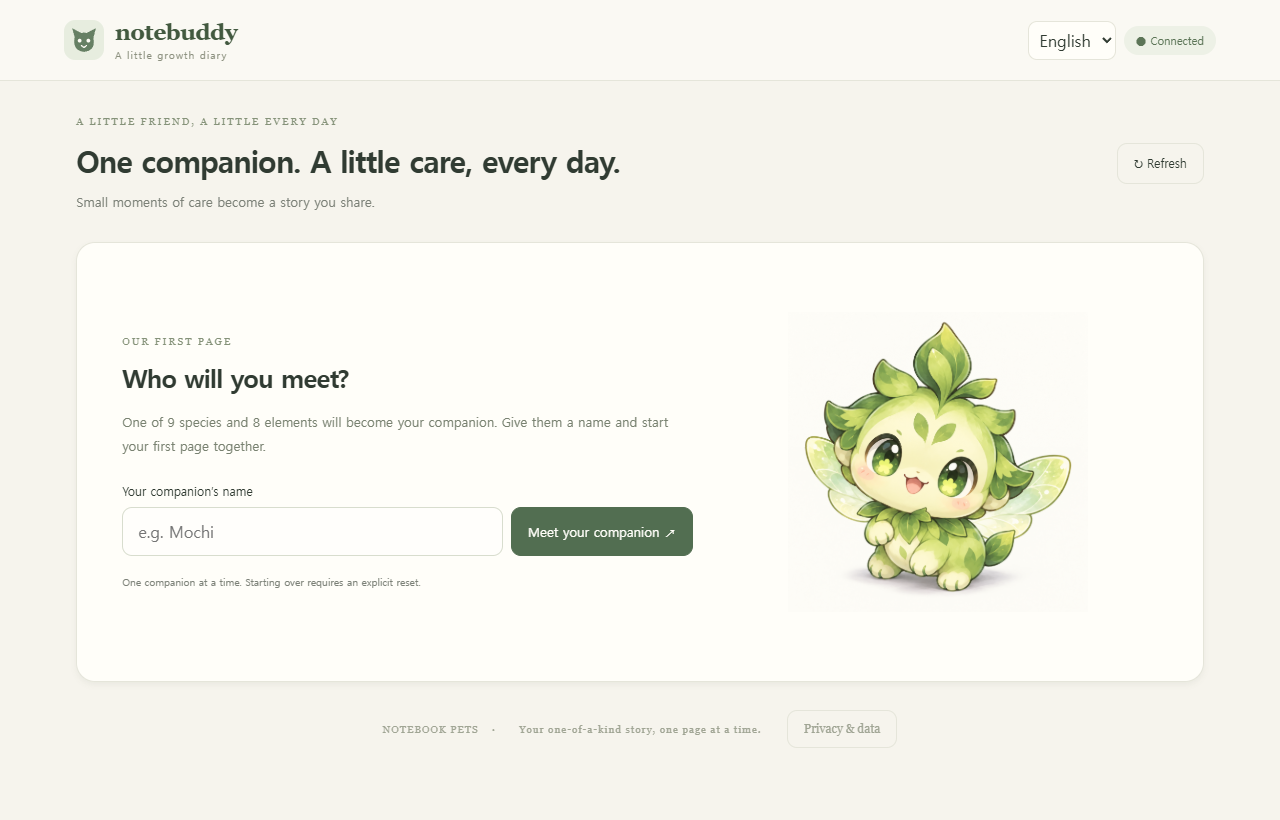
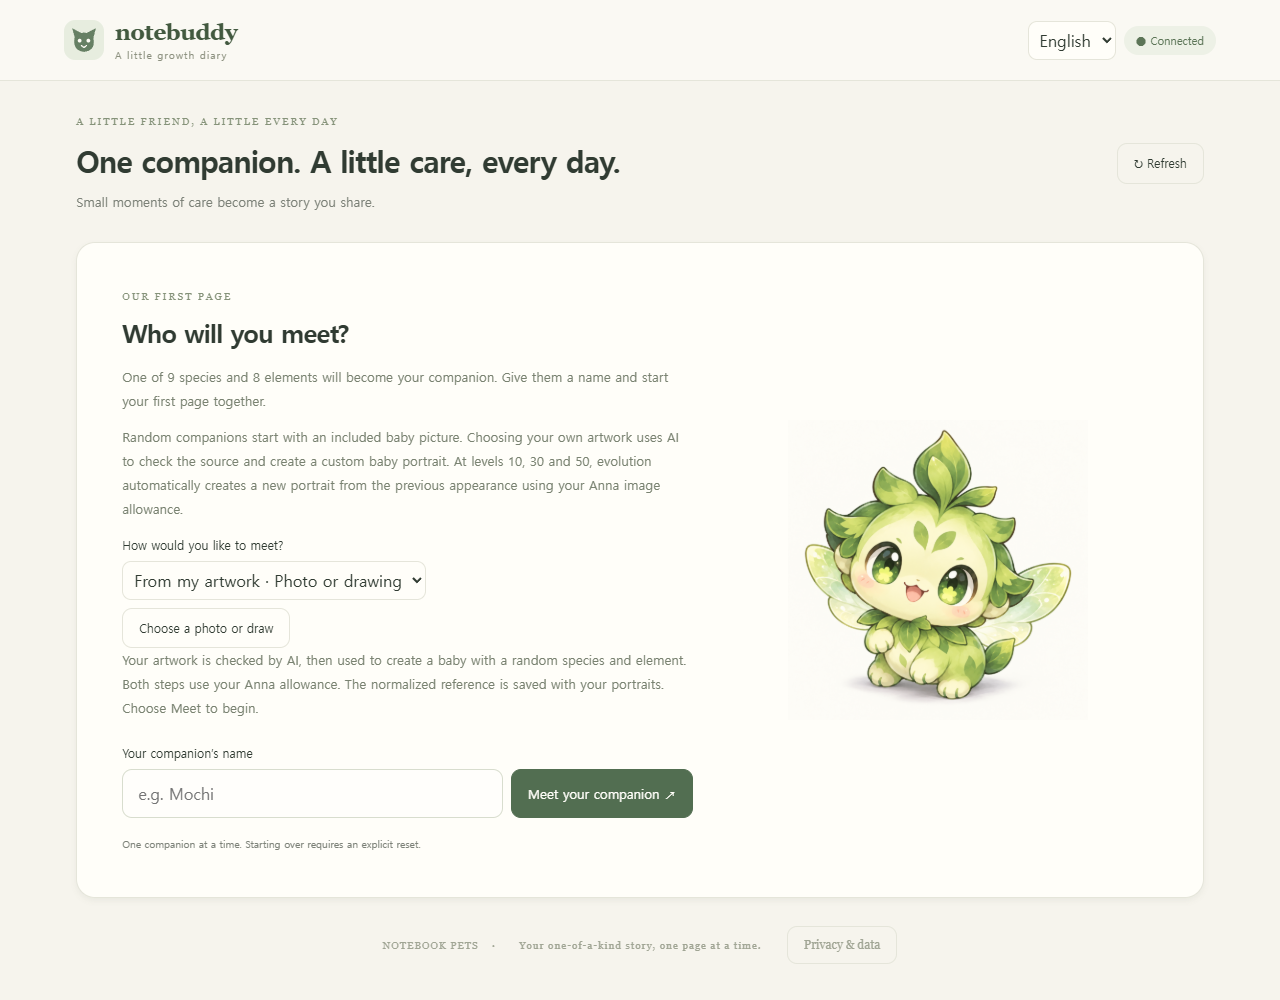
chore(anna): prepare 0.3.0 review candidate and 0.1.10 game package

diff --git a/anna/executas/notebuddy/notebuddy_plugin.py b/anna/executas/notebuddy/notebuddy_plugin.py
@@ -15,7 +15,7 @@ from reset import reset, pending
 from localization import localize
 from receipts import disposition, event_key, prefix, commit_result, SaveCapacityError, pack, unpack
 
-VERSION = '0.1.9'
+VERSION = '0.1.10'
 SAVE_KEY = 'notebuddy/game-v1'
 READ = frozenset({'status', 'album', 'titles', 'quests', 'help'})
 MANIFEST = {

diff --git a/anna/NEXT_RELEASE.md b/anna/NEXT_RELEASE.md
@@ -1,65 +1,21 @@
-Latest validation: [10 October live verification](LIVE_VALIDATION_2026_10_10.md). Four-stage image sample, real care/reopen, real-time walk recharge and isolated reset passed in the documented environments; hosted bundle upload and end-to-end artwork UI remain blocked. Artwork birth now prioritizes assigned species anatomy after an observed mismatch.
+# Notebuddy 0.3.0 submission candidate
 
-# Next Anna update — prepared on 2026-10-10
+Prepared on 10 October 2026. App 0.3.0 requires game tool 0.1.10. The original standalone game VERSION remains 0.2.0; these are separate products/artifacts. This is a preview update, not a claim that all 1.0 release gates passed.
 
-See [1.0 release criteria](V1_READINESS.md) for the frozen product scope and outstanding evidence.
+## Release notes
 
-## Deployment boundary
+- Choose a random companion or use a photo/drawing as inspiration; species and element remain randomly assigned. Unsuitable or uncertain artwork is refused, and failed generation supports explicit retry or the default appearance.
+- At levels 10, 30 and 50, evolution extracts visible features from the previous portrait and generates a new personal image. A growth/saving animation reveals saved results; reduced motion is supported.
+- Successful care actions receive short AI reactions. Gameplay commits first; failed reactions do not undo rewards. Saving an already received reply can be retried without another AI call.
+- Walks store five charges and recover one every five minutes, including time away. Quiet walks have a 50% chance; XP and encounters share the remainder.
+- Improved first-use guidance, uncertain-action recovery and chat/portrait saving feedback in English and Korean.
 
-The submitted candidate remains app **0.2.1** (version 1219), Executa **0.1.9** (version 694). The last live query on 2026-10-10 returned `pending_review`; working draft revision 17 was `ready`. No upload, version cut, resubmission or release-branch update is part of this work. The next version number is intentionally not assigned before packaging.
+## Submission materials
 
-## Prepared user-facing release notes
+The English listing, three current screenshots and version-specific privacy link are prepared together. Analysis, checking, generation and automatic reactions explicitly use Anna AI allowance. No likeness, atomic-first-creation, universal deletion, mobile certification or provider-specific retention guarantee is made.
 
-- Only 72 baby pictures are bundled. Evolution automatically creates new personal artwork from the latest previous saved appearance and consumes Anna image allowance.
-- A growing/saving animation reveals the new portrait after storage completes; reduced motion is supported.
-- Interrupted automatic requests do not repeat on Refresh/reopen; manually retry after checking other windows and allowance.
+## Verification boundary
 
-- Get started with care, a first conversation and the growth album from the new welcome guide.
-- Retry an uncertain care result beside the action, keeping the same request to avoid duplicate rewards.
-- See chat and portrait progress, saving failures and successful saves beside the relevant controls, in English or Korean.
-- Retry saving an existing reply or generated portrait without asking AI to generate it again. Keep the window open while saving is unfinished.
-- Keep the matching saved portrait visible during temporary URL lookup failures.
-- Clear old pending work when another window replaces the companion.
+See LIVE_VALIDATION_2026_10_10.md for real-provider four-stage samples, real care/reopen, walk recharge and reset evidence. Earlier direct-reference 404 is historical; current generation uses vision-extracted text. Local artwork upload failed at PUT, so full hosted photo/drawing birth remains unverified. Hosted bundle upload previously returned WAF 403. New ordinary-account install remains unverified.
 
-## Verification and remaining evidence
-
-Local verification passed on 2026-10-10: **32 UI unit tests and 39 browser tests (38 full-suite plus the final battle/evolution regression)**; the unchanged Python storage/protocol suite previously passed 47 tests, strict manifest validation and `git diff --check`. Browser tests use an isolated host, including permission denial/recovery → first companion → care → chat → portrait → reload. They also cover failed generation, failed writes, lost responses, retry without duplicate AI generation and English/Korean feedback.
-
-This is **not** evidence of a new Anna account's installer or actual first permission grant. No separate authenticated test account is available for that check. Existing production saves must not be erased or rerolled to simulate a new account.
-
-Before publishing the next candidate: run the prepared source checks, choose/bump the app version, refresh listing screenshots for the new guide, package and inspect the bundle, then verify the fixed candidate in a separate test installation/account. Record first permission grant and denial/regrant, game and AI save/reopen behavior, version IDs and review response. Do not replace the current candidate merely to run these checks.
-
-## Accepted limitations
-
-- Distributed first creation still lacks a proven atomic create-if-absent primitive. Local protection and regression passes do not remove that race.
-- In-flight requests, old runtimes and platform retention remain subject to the published deletion/reset limitations.
-- Pending AI replies/portraits and uncertain action requests exist only in the current window. Closing it loses the retry context; reopen and check saved state before issuing a new request.
-- A private support route remains unconfirmed. Public GitHub issues must not collect personal conversations or credentials.
-- Mobile enablement is deferred by the user.
-
-The user accepted submission with the documented platform limitations. Historical documents calling these submission blockers or saying submission has not happened are superseded by REVIEW_READINESS.md and the receipt in HANDOFF.md.
-
-Automatic evolution uses vision-extracted textual features followed by text-only image generation. Actual visual fidelity still needs live verification. The new privacy/listing copy must ship together with this behavior; the currently submitted release copy remains unchanged.
-
-## Live verification failed — 2026-10-10
-
-Historical check of the superseded reference-conditioned route returned a provider endpoint 404; no image was obtained from that route. APS reference save/reopen passed and production data remained unchanged. This blocks the agreed 1.0 image criterion. See [the verification record](EVOLUTION_LIVE_VERIFICATION.md). Do not describe the develop implementation as provider-verified.
-
-## Rechargeable walks
-
-Walks now hold up to 5 charges and recover one every 300 seconds, including offline time. Existing saves start with 5 charges once. Midnight does not refill charges. Each walk exclusively yields quiet time (50%), XP (30%; 10/20/30 equally likely), or an encounter (20%). Base expected walk XP is 6; the existing sleep bonus and level cap still apply. Battles remain limited to 5 per KST day. Replayed requests reuse the same result without spending or rolling again.
-
-## Artwork first meeting
-
-Optional upload/drawing input, local validation, explicit vision check, feature-based baby generation and distinct refusal/check/generation/save failure recovery are implemented on develop. See [USER_ARTWORK.md](USER_ARTWORK.md). Real vision/provider behavior remains unverified; do not ship until the new text-based flow is tested live. Screenshots and the deployed privacy URL must be updated with any candidate that includes this behavior.
-
-## Automatic care reactions · 2026-10-10
-
-Implemented on develop after user approval of per-action Anna allowance. Successful actions queue short reactions with pending/failure/save-only recovery, receipt-based deduplication and companion guards. [CARE_REACTIONS.md](CARE_REACTIONS.md) describes scope and limits. Review candidate/release unchanged.
-
-
-## Text feature generation — 2026-10-10
-
-The current implementation replaces reference_image_urls with vision-to-text extraction followed by text-only image.generate. Prior provider 404 evidence is historical for the superseded route, not evidence that the new route succeeds. Validate actual vision, ordinary generation and visual identity before submission. Features and inherited identity live on existing ART entries and reset/removal covers them.
-
-Live follow-up: one actual Anna baby-to-juvenile vision/text-generation/download sample succeeded. No production game or album write was requested. Deployed UI, user-artwork birth and stages 3/4 remain unverified. See [verification record](EVOLUTION_LIVE_VERIFICATION.md).
+The user authorized submission of the current version on 10 October after the audit. This supersedes the earlier instruction to keep the old review candidate while preparing the next update; it does not turn failed or incomplete checks into passes. Submission succeeds only when the server confirms the new review candidate. See REVIEW_READINESS.md for the actual outcome.

diff --git a/anna/PRIVACY.md b/anna/PRIVACY.md
@@ -1,6 +1,6 @@
 # Notebuddy — privacy and data notice
 
-Last updated: 10 October 2026. Applies to the Notebuddy app on Anna, maintained by [kdkrkwhr](https://github.com/kdkrkwhr). The separately installed Discord/Hermes edition has a different storage setup.
+Last updated: 10 October 2026. This notice describes Notebuddy 0.3.0. Applies to the Notebuddy app on Anna, maintained by [kdkrkwhr](https://github.com/kdkrkwhr). The separately installed Discord/Hermes edition has a different storage setup.
 
 ## What the app stores and why
 
@@ -13,7 +13,7 @@ Last updated: 10 October 2026. Applies to the Notebuddy app on Anna, maintained 
 
 The app does not request your real name, email, contacts or a separate API key. You choose your companion’s name and anything you type into chat. Avoid entering sensitive personal information. Anna authenticates access to the account’s saved data; Notebuddy’s game commands do not accept another user’s account ID.
 
-## Optional source artwork (develop update, not yet the submitted version)
+## Optional source artwork
 
 Choosing artwork mode sends a normalized PNG copy of your photo or drawing to Anna's LLM service for an image suitability check and a short description of visible features. This check uses your AI allowance, including when no pet is created. Local file checks alone do not send an image. The browser accepts PNG/JPEG/WebP up to 12 MB and 16 megapixels, with minimum dimensions 32 by 32; it resizes to a maximum side of 1024 pixels and re-encodes as PNG instead of uploading the original file or its metadata. Original filenames are not sent in the prompt.
 
@@ -21,7 +21,7 @@ If the check accepts the source, the game assigns random species and element, an
 
 The in-browser editor and uncommitted generated image are held in memory. Closing the page may require reselecting unsaved artwork or making another paid generation request. The app does not automatically regenerate an unfinished custom baby when reopened. Choosing the default appearance does not reroll the companion or erase the saved source file. Existing reset/removal covers these source files and descriptions as well as generated portraits. No new file bucket or browser storage key is introduced.
 
-## Automatic care reactions (develop update)
+## Automatic care reactions
 
 After a successful feed, treat, play, rest, training, walk, battle, walk-away, attendance or quest reward action, the UI queues one short AI reaction. The request includes the pet name, species, element, level, fullness, bond and the actual action outcome (including awarded XP or loot when present). It does not send uploaded artwork or conversation history for this reaction. The reaction uses Anna LLM allowance independently of gameplay, and cannot change rewards or statistics.
 
@@ -31,7 +31,7 @@ A marker is written to the existing chat record before each AI request. An inter
 
 When you send a chat message, the app sends up to 12 recent messages, including that message, and a current companion-status snapshot to Anna’s AI service. The snapshot includes the companion’s name and game status. The service uses these to generate a reply. AI replies do not directly award XP or change game statistics.
 
-In the next develop update, evolution automatically requests a new portrait using your Anna image allowance. The app sends the previous saved portrait (or the matching bundled baby picture) to Anna’s vision-capable LLM to extract visual features. Those features and a fixed identity description are saved in the existing portrait index. Only textual features and growth instructions are sent to the image generator; no reference image URL is included. Analysis and generation each use Anna AI allowance. Saved analysis is reused for retries of the same source portrait. Manual redraws after evolution use the same reference flow. The submitted 0.2.1 version still requires explicit portrait confirmation. The app does not append your chat transcript to that image prompt. The generated image is downloaded and saved in Anna file storage. A bundled baby reference may also be copied to that storage. An unfinished evolution marker is stored in the portrait index before an automatic AI request to prevent automatic repeat requests after reopening. Signed image URLs are not saved in the index.
+Evolution automatically requests a new portrait using your Anna image allowance. The app sends the previous saved portrait (or the matching bundled baby picture) to Anna’s vision-capable LLM to extract visual features. Those features and a fixed identity description are saved in the existing portrait index. Only textual features and growth instructions are sent to the image generator; no reference image URL is included. Analysis and generation each use Anna AI allowance. Saved analysis is reused for retries of the same source portrait. Manual redraws after evolution use the same reference flow. The app does not append your chat transcript to that image prompt. The generated image is downloaded and saved in Anna file storage. A bundled baby reference may also be copied to that storage. An unfinished evolution marker is stored in the portrait index before an automatic AI request to prevent automatic repeat requests after reopening. Signed image URLs are not saved in the index.
 
 These calls use your Anna AI allowance. Anna routes AI requests to its supported providers. Notebuddy does not promise a particular provider, training policy, processing country or retention period on their behalf. Review the terms presented by Anna for your account before sending information you consider private.
 

diff --git a/anna/REVIEW_READINESS.md b/anna/REVIEW_READINESS.md
@@ -1,24 +1,25 @@
-# Anna 심사 준비 · 2026-10-09
+# Anna submission — 0.3.0
 
-사용자는 Anna 측 직접 확인이 어려우므로 공식 문서에 지원이 없는 항목은 기다리지 않고 제출하도록 승인했습니다. 이전 원자적 최초 생성 출시 차단 결정을 대체합니다. 미해결 문제를 해결됐다고 표시하지 않습니다.
+Prepared on 10 October 2026 at the user's request to submit the current implementation.
 
-## 제출 후보와 자료
+## Candidate
 
-- 앱 **0.2.1**, version ID **1219** / 게임 도구 **0.1.9**, version ID **694**.
-- 영문 소개·로고·지원 GitHub Issues·개인정보 안내 URL 등록. 별도 비공개 지원 창구가 마련됐다고 주장하지 않습니다.
-- 실제 UI와 격리된 Python 엔진으로 스크린샷 3장을 재촬영했습니다. 성장 앨범 10/30/50 표시를 확인했고 사용자 계정·대화·유료 AI는 사용하지 않았습니다.
-- strict manifest 검증 통과. 기존 코드 검증과 설치된 고정 버전의 연결·저장된 펫/개인 그림·앨범 확인은 [HANDOFF.md](HANDOFF.md)에 기록했습니다.
-- 자동 돌봄 AI 반응은 제외한 후보입니다. 수동 AI 대화·그림, 2D 전투, 성장 1/10/30/50을 제공합니다.
+- App 0.3.0; bundled game tool 0.1.10. Submit the tested matching UI/tool pair.
+- English listing, refreshed screenshots and privacy notice pinned to `anna-v0.3.0`.
+- Homepage and support use the public GitHub repository/issues. Do not request private data in issues.
+- Includes artwork first meeting, automatic care reactions, textual-feature evolution and rechargeable walks.
 
-## 보류한 제한과 검증 범위
+## Status before upload
 
-- [동시 최초 생성](FIRST_CREATION.md): 공식 APS API에 원자적 create-if-absent가 없으며 다중 실행기의 지연된 최초 쓰기가 다른 펫/진행을 덮을 수 있습니다. 현재 보호 조치로 완전히 막지 못합니다.
-- [삭제](DATA_REMOVAL.md): 첫 쓰기·구버전 요청·진행 중 업로드 및 플랫폼 로그/백업 보관까지 완전 삭제를 보장하지 않습니다. 개인정보 안내에도 한계를 유지합니다.
-- 별도 신규 계정의 설치/최초 권한 승인 전체 흐름은 미검증입니다. 기존 계정 검증 및 오류 주입 브라우저 테스트와 구분합니다. 모바일 지원 인증도 주장하지 않습니다.
-- 위 항목은 이번 사용자 승인으로 제출 차단에서 제외했으며 Anna가 승인한 예외는 아닙니다. 심사 피드백에 따라 추가 조치할 수 있습니다.
+Last confirmed review candidate: 0.2.1, version ID 1219, pending_review. Preparing this file is not proof that 0.3.0 was uploaded, cut or submitted. The final server response must be recorded below.
 
-## 공식 제출 절차
+## Remaining verification and accepted limitations
 
-[Publishing an App](https://anna.partners/developers/apps/app-publish.md)의 manifest 검증·고정 버전·Executa 의존성·UI bundle readiness 및 설치 사용 요건을 기준으로 확인합니다. 제출 API의 서버 사전 검사를 통과해야 심사 대기가 됩니다. 공식 제출 API가 성공하여 **pending_review**, 심사 후보 **0.2.1**을 반환했고 서버 재조회로 확인했습니다. [접수 기록](HANDOFF.md)을 참고하세요.
+- Actual vision/text image samples and separate persistence checks passed, but full hosted artwork birth and automatic evolution/reopen remain unverified. A local browser PUT failed; previous hosted bundle upload returned WAF 403. See LIVE_VALIDATION_2026_10_10.md.
+- A separate ordinary account's installation/first permission grant is unverified; no mobile certification is claimed.
+- APS has no verified atomic create-if-absent for simultaneous first creation. Reset/removal cannot promise cancellation of all old in-flight writes or physical erasure of platform/provider logs and backups.
+- User authorized proceeding with the current submission; none of these are platform-approved exceptions or evidence of approval.
 
-심사 승인은 Anna의 결정입니다. 관리자가 승인과 공개를 함께 수행할 수 있으며 제출은 통과나 공개 완료를 뜻하지 않습니다. 이번 작업에서는 별도 release 명령을 실행하지 않습니다.
+## Outcome
+
+Upload and submission pending; the existing review has not been cancelled.

diff --git a/anna/store/README.md b/anna/store/README.md
@@ -1,13 +1,9 @@
-# Store screenshots
+# Store screenshots — Notebuddy 0.3.0
 
-Captured on 2026-10-09 from app 0.2.1 with the actual bundled UI and Python game engine, using an isolated local Anna development harness. The harness controls and logs are excluded. Screenshots contain no real account data, fabricated AI conversation, edited game values or generated UI mockups.
+Captured on 10 October 2026 from the shipped UI and real Python engine in the official local Anna harness, using isolated in-memory state and no AI calls. No real account data, fabricated dialogue, seeded stats or generated UI mockups appear.
 
-- `01-first-meeting.png`: actual initial screen, 1280 × 820.
-- `02-companion-and-care.png`: a newly created test companion, 1280 × 1520.
-- `03-care-and-album.png`: the same companion's care, daily quests and locked future stages, 1280 × 740.
+- `01-first-meeting.png` (1280 × 1000): photo/drawing mode selected; source selection and AI usage notice visible. This image does not claim successful provider generation.
+- `02-companion-and-care.png` (1280 × 1720): actual randomly assigned test companion, first-steps guide collapsed using its normal control, care and growth album.
+- `03-care-and-album.png` (1280 × 900): five-minute walk recharge, automatic portrait and care-reaction allowance notices, growth levels 10/30/50.
 
-The companion uses the revised `starters-v1` artwork. The 0.2.1 recapture verified image decoding and initial creation; the language/privacy checks below refer to the earlier capture, with current behavior also covered by the browser regression suite. No paid AI request was made. The English UI, Korean privacy dialog, closing behavior and a 360-pixel privacy-dialog layout were checked in a separate headless Edge browser. This is not a native-mobile certification or an APS persistence test.
-
-The CLI legacy in-memory harness did not retain the sequenced game state across the start → feed calls in an earlier capture attempt: feed returned `request_expired`. That failed capture was discarded. Final screenshots show the successful initial creation only. Real APS save/persistence checks belong to the installed private Anna app and are recorded in `../HANDOFF.md`; do not use the legacy harness to certify them.
-
-`../app.json` references these local files. Anna CLI uploads them through the official listing screenshot API. Recheck screenshots against the frozen release candidate before review submission. No cover asset has been invented; the cover remains optional and unset.
+Harness controls are outside the iframe capture. These screenshots verify presentation, not hosted storage, AI processing or a new account's installation. See LIVE_VALIDATION_2026_10_10.md for the distinct provider and persistence evidence and its limits.

diff --git a/anna/HANDOFF.md b/anna/HANDOFF.md
@@ -1,3 +1,5 @@
+Current submission preparation: app **0.3.0**, tool **0.1.10**. See [current submission status](REVIEW_READINESS.md) and [candidate notes](NEXT_RELEASE.md); older version and hold instructions below are historical.
+
 Latest validation: [10 October live verification](LIVE_VALIDATION_2026_10_10.md). Four-stage image sample, real care/reopen, real-time walk recharge and isolated reset passed in the documented environments; hosted bundle upload and end-to-end artwork UI remain blocked. Artwork birth now prioritizes assigned species anatomy after an observed mismatch.
 
 # Anna 작업 인계 · 2026-10-09

diff --git a/anna/V1_READINESS.md b/anna/V1_READINESS.md
@@ -1,3 +1,5 @@
+Current submission preparation: app **0.3.0**, tool **0.1.10**. See [current submission status](REVIEW_READINESS.md) and [candidate notes](NEXT_RELEASE.md); older version and hold instructions below are historical.
+
 # Notebuddy 1.0 출시 기준 · 2026-10-10
 
 ## 판단
